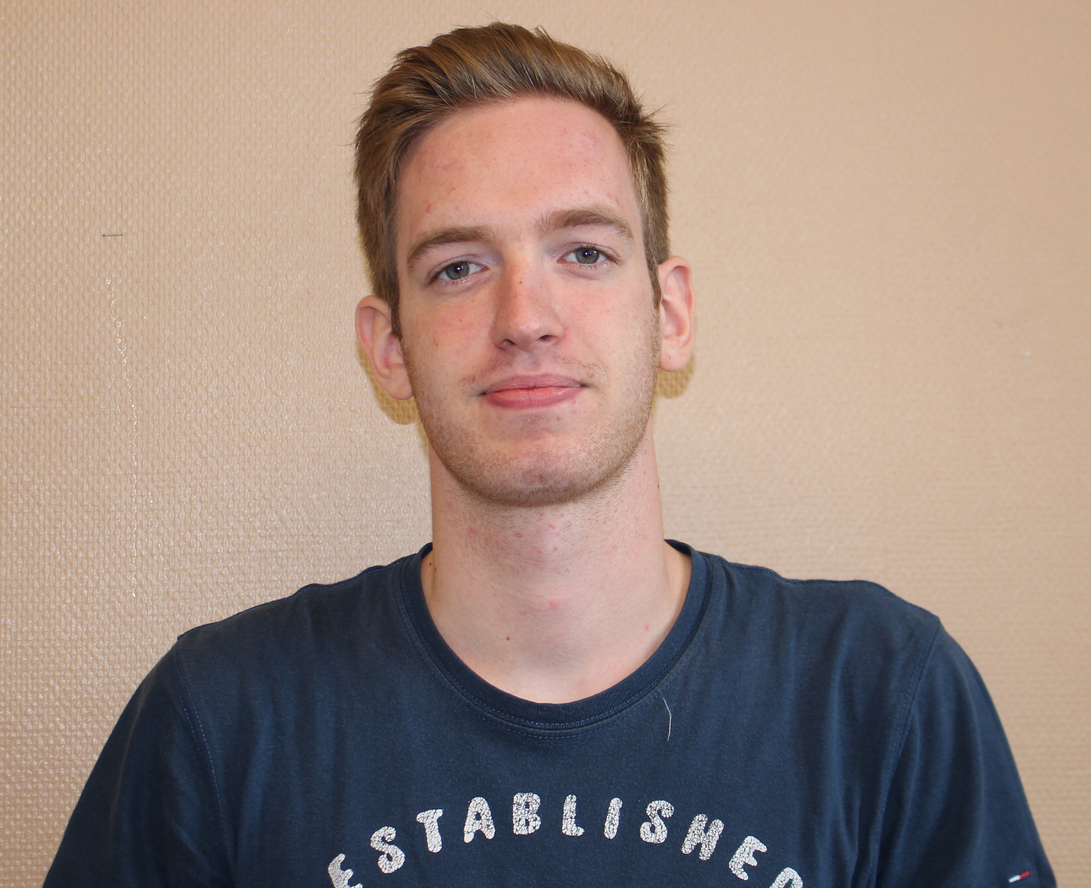
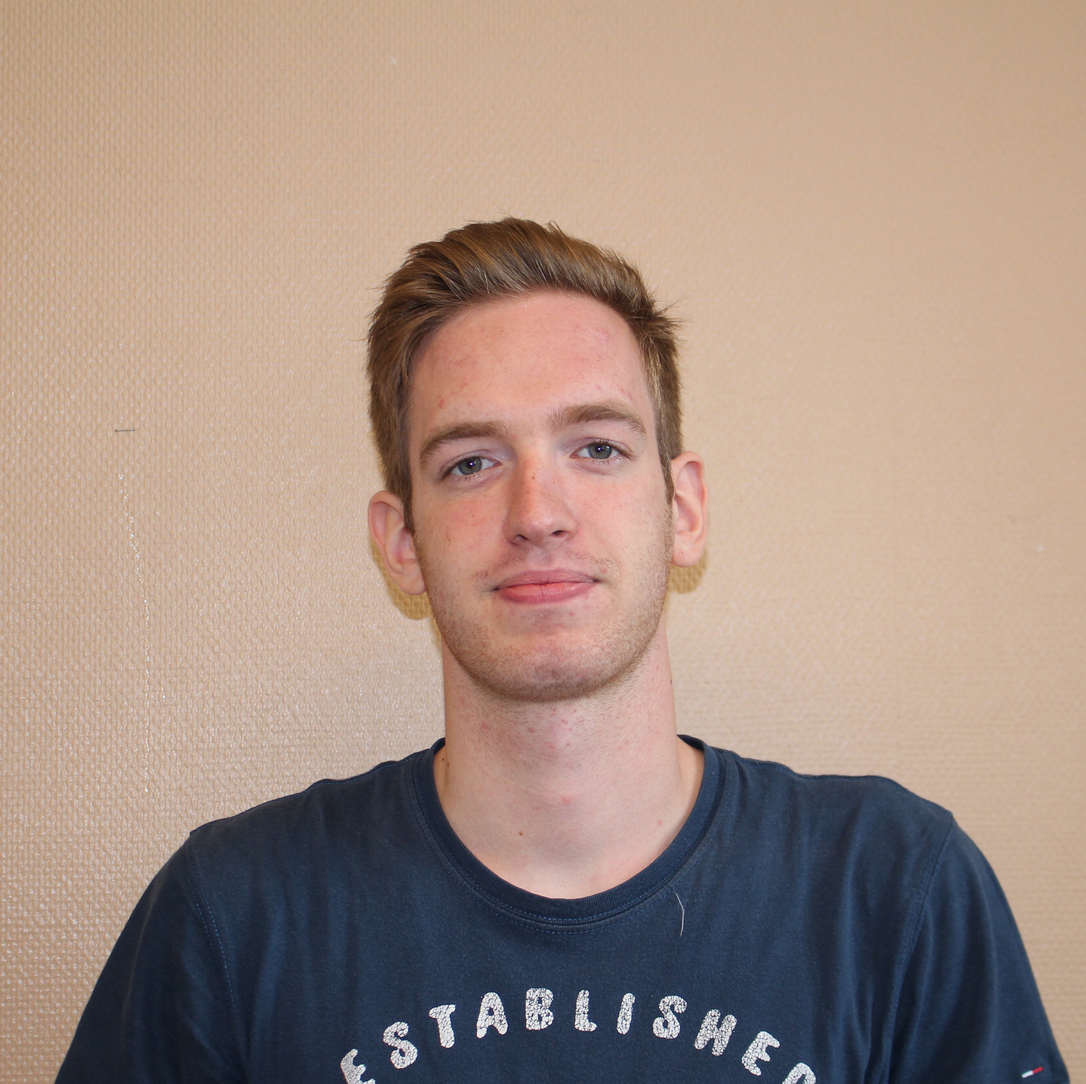
Add timeline page

diff --git a/src/Pages/Timeline/Timeline.js b/src/Pages/Timeline/Timeline.js
@@ -1,0 +1,102 @@
+import './Timeline.css';
+import { useState, useEffect, useContext } from 'react';
+import LanguageContext from '../../languageContext';
+import { VerticalTimeline, VerticalTimelineElement } from 'react-vertical-timeline-component';
+import 'react-vertical-timeline-component/style.min.css';
+import DevIcon from "devicon-react-svg"
+
+function Timeline() {
+  const [languageDictionary, setLanguageDictionary] = useState({});
+  const language = useContext(LanguageContext);
+
+  useEffect(() => {
+    setLanguage();
+  }, [language]);
+
+
+  const setLanguage = () => {
+    if (language.currentLanguage == "fr") {
+      setLanguageDictionary({
+        Bac: "Baccalauréat Scientifique",
+        BacSub: "Lycée Saint-Paul Lille, FRANCE",
+        Cesi: "CESI École d'ingénieurs",
+        CesiSub: "Méthodologie Problem-based learning, où l'évaluation finale est un projet fait en équipe",
+        DateStage2020: "Mars - Juillet 2020",
+        Stage2020: "Stage chez Neu Automation",
+        Stage2020Sub: "Projet d'application mobile de gestion de production en Xamarin",
+        LastLine: "En recherche de stage",
+      })
+    }
+    else {
+      setLanguageDictionary({
+        Bac: "Baccalaureate of Science",
+        BacSub: "Saint-Paul High-School Lille, FRANCE",
+        Cesi: "CESI Engineering school",
+        CesiSub: "Engineering school using PBL methodology, where final exams are real projects done in a team",
+        DateStage2020: "March - July 2020",
+        Stage2020: "Internship at Neu Automation",
+        Stage2020Sub: "Mobile App helping counting the number of washes for the masks made of fabric during the outbreak. The application uses React Native, MongoDB, Expo and NodeJS",
+        LastLine: "Looking for an internship",
+      })
+    }
+  }
+
+  return (
+    <div className="Base">
+      <div>
+        <h2>
+          Experiences
+        </h2>
+      </div>
+      <VerticalTimeline>
+        <VerticalTimelineElement
+          className="vertical-timeline-element--work"
+          contentStyle={{ background: 'rgb(33, 150, 243)', color: 'black' }}
+          contentArrowStyle={{ borderRight: '7px solid  rgb(33, 150, 243)' }}
+          date="2018"
+          iconStyle={{ background: 'rgb(33, 150, 243)', color: '#fff' }}
+
+        >
+          <h3 className="vertical-timeline-element-title">{languageDictionary.Bac}</h3>
+          <h4 className="vertical-timeline-element-subtitle">{languageDictionary.BacSub}</h4>
+
+        </VerticalTimelineElement>
+        <VerticalTimelineElement
+          className="vertical-timeline-element--work"
+          date="2018 - 2023"
+          iconStyle={{ background: 'rgb(33, 150, 243)', color: '#fff' }}
+
+        >
+          <h3 className="vertical-timeline-element-title">{languageDictionary.Cesi}</h3>
+          <h4 className="vertical-timeline-element-subtitle">Lille, FRANCE</h4>
+          <p>
+            {languageDictionary.CesiSub}
+          </p>
+        </VerticalTimelineElement>
+        <VerticalTimelineElement
+          className="vertical-timeline-element--work"
+          date={languageDictionary.DateStage2020}
+          iconStyle={{ background: 'rgb(33, 150, 243)', color: '#fff' }}
+          icon={<DevIcon icon="react" style={{ fill: "White" }} />}
+        >
+          <h3 className="vertical-timeline-element-title">{languageDictionary.Stage2020}</h3>
+          <p>
+            {languageDictionary.Stage2020Sub}
+          </p>
+        </VerticalTimelineElement>
+        <VerticalTimelineElement
+          className="vertical-timeline-element--work"
+          date="2021"
+          iconStyle={{ background: 'rgb(33, 150, 243)', color: '#fff' }}
+          icon={<DevIcon icon="terminal_badge" style={{ fill: "White" }} />}
+        >
+          <h3 className="vertical-timeline-element-title">{languageDictionary.Stage2020}</h3>
+
+        </VerticalTimelineElement>
+
+      </VerticalTimeline>
+    </div>
+  );
+}
+
+export default Timeline;

diff --git a/src/Pages/Contact/Contact.js b/src/Pages/Contact/Contact.js
@@ -1,0 +1,140 @@
+import './Contact.css';
+import { useState, useEffect, useContext } from 'react';
+import LanguageContext from '../../languageContext';
+import ReactTextTransition, { presets } from "react-text-transition";
+import Button from '@material-ui/core/Button';
+import emailjs from 'emailjs-com';
+import { makeStyles } from '@material-ui/core/styles';
+import TextField from '@material-ui/core/TextField';
+import TextareaAutosize from '@material-ui/core/TextareaAutosize';
+import SendIcon from '@material-ui/icons/Send';
+
+function Contact() {
+  const [languageDictionary, setLanguageDictionary] = useState({});
+  const [userName, setUserName] = useState("");
+  const [email, setEmail] = useState("");
+  const [message, setMessage] = useState("");
+  const [isSent, setIsSent] = useState(false);
+
+  const language = useContext(LanguageContext);
+
+
+  useEffect(() => {
+    setLanguage();
+  }, [language]);
+
+  const useStyles = makeStyles((theme) => ({
+    root: {
+      '& > *': {
+        margin: theme.spacing(1),
+        width: '25ch',
+      },
+      textField: {
+        marginLeft: theme.spacing(1),
+        marginRight: theme.spacing(1),
+      },
+      button: {
+        margin: theme.spacing(1),
+      },
+
+    },
+  }));
+
+  const classes = useStyles();
+
+
+  const handleSubmit = (event) => {
+    event.preventDefault();
+    setIsSent(true);
+    var payload = {
+      from_name: userName,
+      to_name: email,
+      message: message
+    }
+    console.log(payload);
+    emailjs.send('service_b9rq5v6', 'template_jo60n0s', payload, 'user_0Eb2LbE8Jgm19DgzrzIzi')
+      .then(function (response) {
+        console.log('SUCCESS!', response.status, response.text);
+      }, function (error) {
+        console.log('FAILED...', error);
+      });
+  }
+
+
+  const setLanguage = () => {
+    if (language.currentLanguage == "fr") {
+      setLanguageDictionary({
+        Developer: "Développeur",
+        FullStack: "Full-Stack"
+      })
+    }
+    else {
+      setLanguageDictionary({
+        Developer: "Full-Stack",
+        FullStack: "Developer"
+      })
+    }
+  }
+
+
+  const sentButton = () => {
+    if (isSent) {
+      return (
+        <div>
+          <Button
+            color="primary"
+            className={classes.button}
+            endIcon={<SendIcon />}
+          >
+            OK!
+          </Button>
+        </div>
+      )
+    }
+    else {
+      return (
+        <div>
+          <Button
+            color="primary"
+            className={classes.button}
+            endIcon={<SendIcon />}
+            type="submit">
+            Send
+          </Button>
+        </div>
+      )
+    }
+
+  }
+  return (
+    <div className="Contact">
+      <h2> Contact me!</h2>
+      <form className={classes.root} autoComplete="off" onSubmit={(event) => { handleSubmit(event) }}>
+        <div className="ContactTextBox">
+          <TextField required id="standard-basic" label="Nom" fullWidth value={userName} onChange={e => setUserName(e.target.value)} />
+        </div>
+        <div className="ContactTextBox">
+          <TextField required id="filled-basic" label="Email" fullWidth value={email} onChange={e => setEmail(e.target.value)} />
+        </div>
+        <div className="ContactTextBox">
+          <TextField
+            required
+            id="outlined-multiline-static"
+            label="Message"
+            fullWidth
+            multiline
+            rows="10"
+            className={classes.textField}
+            margin="normal"
+            variant="outlined"
+            value={message}
+            onChange={e => setMessage(e.target.value)}
+          />
+        </div>
+        {sentButton()}
+      </form>
+    </div>
+  );
+}
+
+export default Contact

diff --git a/src/infoContainer.js b/src/infoContainer.js
@@ -5,8 +5,9 @@ import FormControlLabel from '@material-ui/core/FormControlLabel';
 import FormControl from '@material-ui/core/FormControl';
 import About from './Pages/About/About';
 import Base from './Pages/Base/Base';
+import Timeline from './Pages/Timeline/Timeline';
+import Contact from './Pages/Contact/Contact';
 import { LanguageProvider } from './languageContext';
-import France from './IMG/France.png';
 
 const InfoContainer = props => {
     // pretend we are fetching these 'things'
@@ -42,6 +43,8 @@ const InfoContainer = props => {
             <LanguageProvider value={{ currentLanguage, switchLanguage }}>
                 <Base />
                 <About />
+                <Timeline />
+                <Contact />
             </LanguageProvider>
         </div>
     )

diff --git a/src/Pages/About/About.js b/src/Pages/About/About.js
@@ -46,7 +46,7 @@ function About() {
         TeamWork: "Team Work",
         TeamWorkContent: "I am comfortable with teamwork, I have been specially trained with Problem-based learning",
         Profil: "Profile",
-        ProfilContent: "I am a passionate and motivated professional used to work in a team-based environment. I am looking for an internship from 04/01/2021 to 16/04/2021 in which I could acquire skills and to put them at the service of your projetcs.",
+        ProfilContent: "I am a passionate and motivated professional used to work in a team-based environment. I am looking for an internship from 04/01/2021 to 16/04/2021 in which I could acquire skills and to put them at the service of your projects.",
         Skill: "Skills",
       })
     }

diff --git a/src/Pages/Base/Base.js b/src/Pages/Base/Base.js
@@ -4,7 +4,7 @@ import LanguageContext from '../../languageContext';
 import ReactTextTransition, { presets } from "react-text-transition";
 import Zoom from 'react-reveal/Zoom';
 import Particles from 'react-particles-js';
-import RodriguePhoto from "../../IMG/IMG_0338.JPG";
+import RodriguePhoto from "../../IMG/RodriguePhoto.JPG";
 import France from '../../IMG/France.png';
 import English from '../../IMG/English.png';
 

diff --git a/src/Pages/Contact/Contact.css b/src/Pages/Contact/Contact.css
@@ -1,0 +1,14 @@
+.Contact {
+    background-color: #ffffff;
+    min-height: 100vh;
+    min-width: 1440px;
+    z-index: 0;
+    font-size: calc(10px + 2vmin);
+    display: flex;
+    flex-direction: column;
+    align-items: center;
+}
+
+.ContactTextBox {
+    align-content: center;
+}

diff --git a/src/Pages/Timeline/Timeline.css b/src/Pages/Timeline/Timeline.css
@@ -1,5 +1,7 @@
 .Base {
     text-align: center;
+    background-color: #dcdcdc;
+    font-size: calc(10px + 2vmin)
   }
   
   .App-logo {
